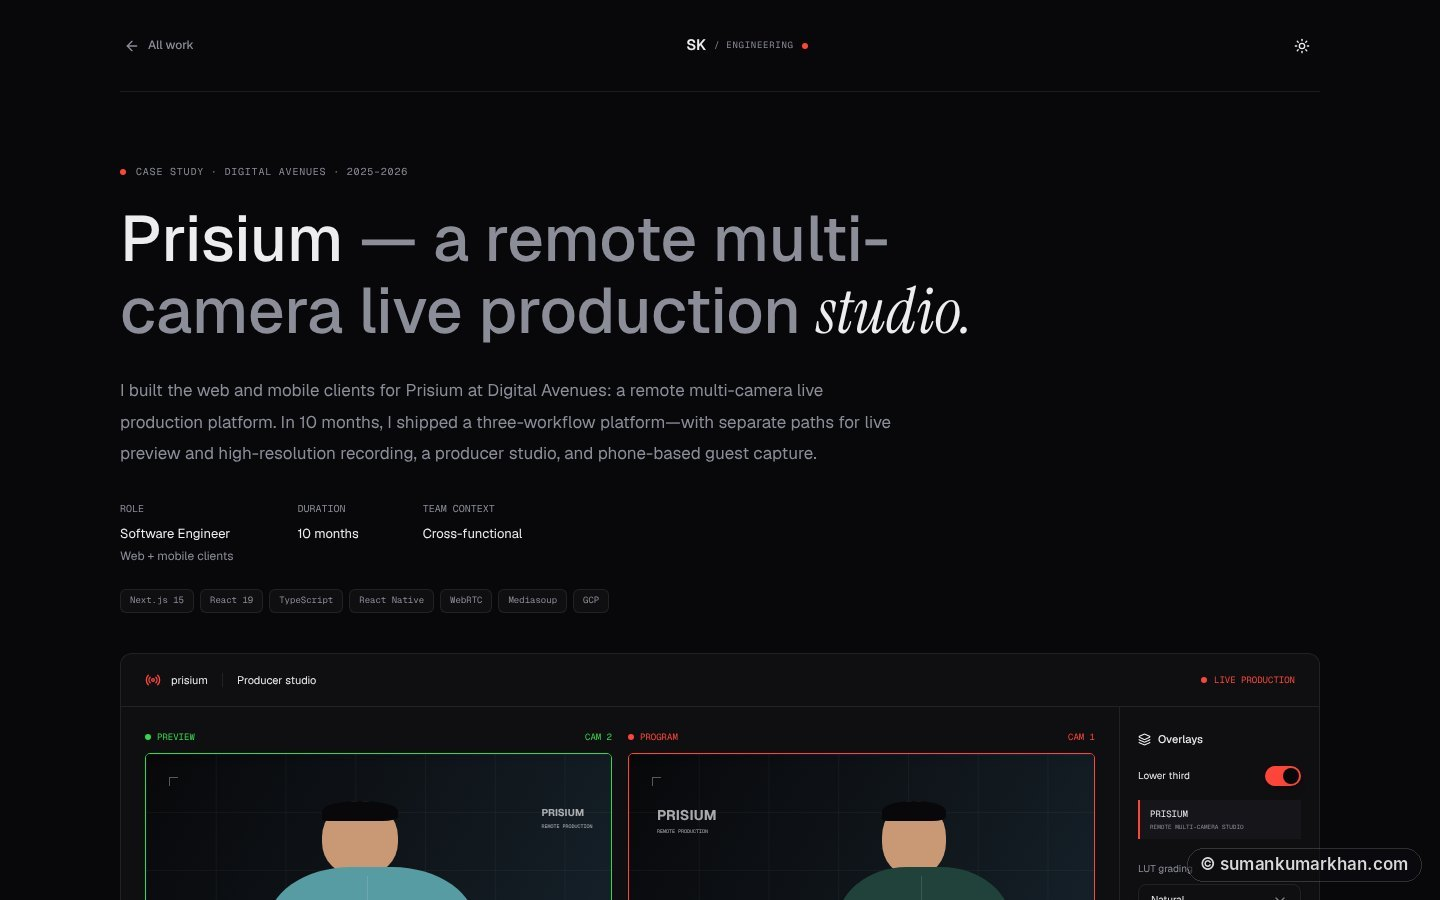
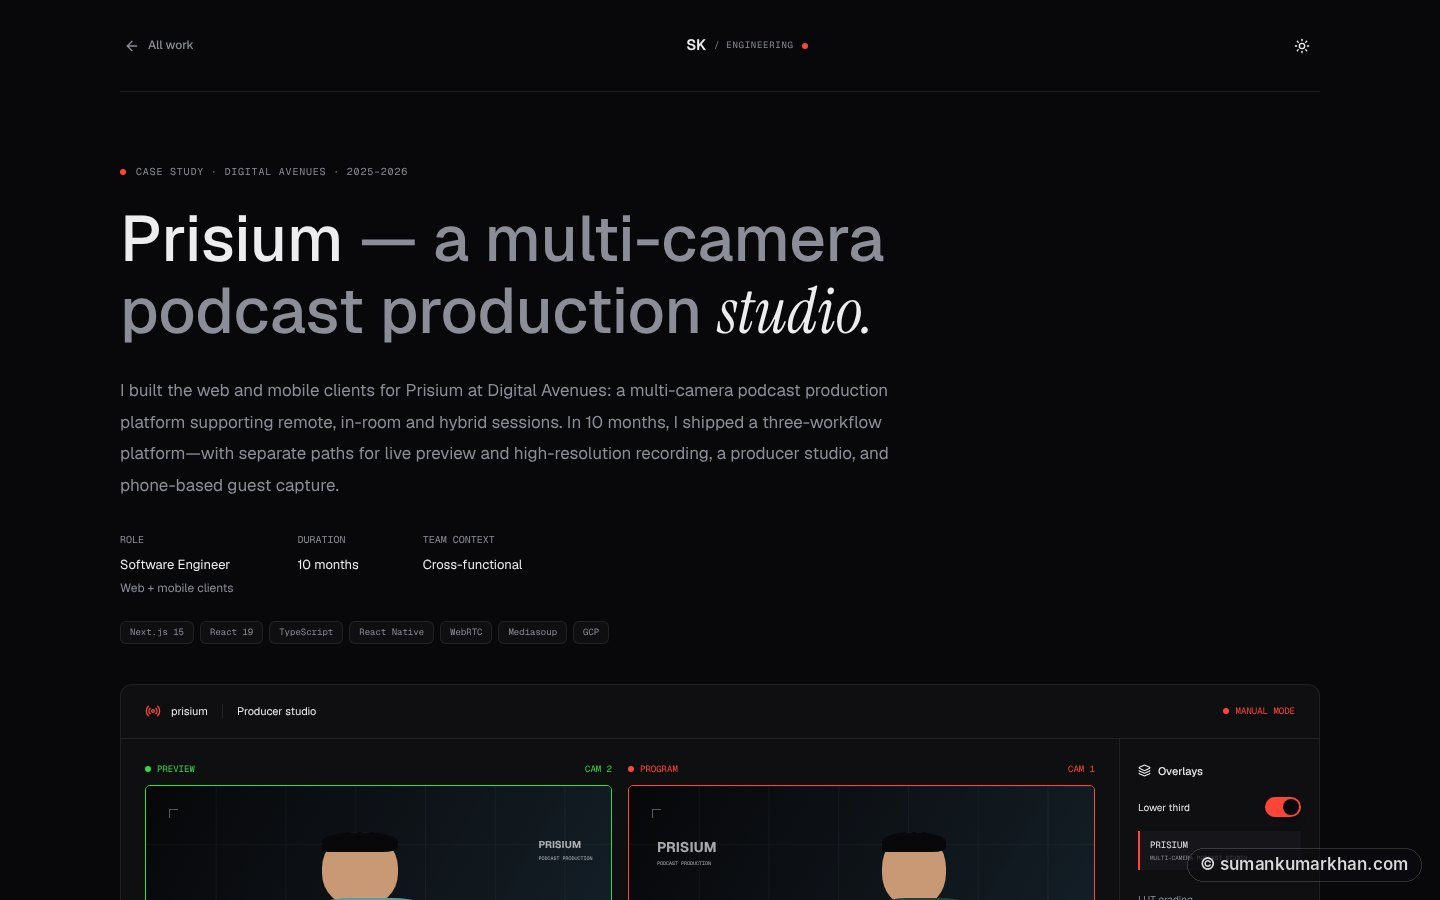
Update showcase: Blogger, résumé manager, homepage editor, new screenshots and architecture

diff --git a/README.md b/README.md
@@ -4,7 +4,7 @@
 
 ### *I build software that goes **live**.*
 
-**My personal portfolio, designed like a live-production control room** — server-rendered on the edge, with a private studio that publishes posts to the site, LinkedIn and dev.to on a schedule, reports the site's own traffic, and keeps a private handbook library.
+**My personal portfolio, designed like a live-production control room** — server-rendered on the edge, with a private studio that publishes posts to the site, LinkedIn, dev.to and Blogger, reports the site's own traffic, and runs the résumé, homepage, recommendations and handbooks — no deploy needed.
 
 <a href="https://sumankumarkhan.com"><img src="https://img.shields.io/badge/Visit-sumankumarkhan.com-FF3B30?style=for-the-badge&logo=googlechrome&logoColor=white" alt="Visit the portfolio" title="Visit sumankumarkhan.com" /></a>
 <a href="https://sumankumarkhan.com/work/prisium"><img src="https://img.shields.io/badge/Read-Case_Studies-111111?style=for-the-badge&logo=readdotcv&logoColor=white" alt="Case studies" title="Read the Prisium case study" /></a>
@@ -20,7 +20,7 @@
 <img src="https://img.shields.io/badge/Vite_8-646CFF?style=flat&logo=vite&logoColor=white" alt="Vite 8" title="Vite 8" />
 <img src="https://img.shields.io/badge/Bun-000000?style=flat&logo=bun&logoColor=white" alt="Bun" title="Bun" />
 <img src="https://img.shields.io/badge/Cloudflare_Workers-F38020?style=flat&logo=cloudflare&logoColor=white" alt="Cloudflare Workers" title="Cloudflare Workers, KV, R2 and Access" />
-<img src="https://img.shields.io/badge/Tests-390%2B-2EA043?style=flat&logo=vitest&logoColor=white" alt="390+ tests" title="390+ Vitest tests" />
+<img src="https://img.shields.io/badge/Tests-720%2B-2EA043?style=flat&logo=vitest&logoColor=white" alt="720+ tests" title="720+ Vitest tests" />
 
 </div>
 
@@ -47,12 +47,12 @@
 
 <table>
 <tr>
-<td align="center" width="16%"><h3>10</h3><sub>numbered home sections, from Impact to Contact</sub></td>
+<td align="center" width="16%"><h3>11</h3><sub>home sections, reordered and shown or hidden from the studio</sub></td>
 <td align="center" width="16%"><h3>5</h3><sub>engineering case studies with their own pages</sub></td>
-<td align="center" width="16%"><h3>3</h3><sub>publishing targets: site, LinkedIn and dev.to</sub></td>
-<td align="center" width="16%"><h3>⌘K</h3><sub>command palette for every page and action</sub></td>
+<td align="center" width="16%"><h3>4</h3><sub>publishing targets: site, LinkedIn, dev.to and Blogger</sub></td>
+<td align="center" width="16%"><h3>7</h3><sub>sections in the private studio</sub></td>
 <td align="center" width="16%"><h3>0</h3><sub>cookies — privacy-friendly analytics, no banner</sub></td>
-<td align="center" width="16%"><h3>390+</h3><sub>automated tests</sub></td>
+<td align="center" width="16%"><h3>720+</h3><sub>automated tests</sub></td>
 </tr>
 </table>
 
@@ -89,17 +89,22 @@ A **Core** toggle trims the board down to the tools I use most.
 ### Case studies
 <img src="docs/screenshots/05-case-study.jpg" alt="Prisium case study" title="Prisium case study" />
 
-Five dedicated pages (**Prisium, App Studio, HRM, AR/VR, Vehicle Tracking**) with role, duration and team context, numbered figures, an interactive producer-studio demo and a simulated camera-switching walkthrough, results, and previous / next navigation.
+Five dedicated pages — **Prisium** (a multi-camera podcast production platform for remote, in-room and hybrid sessions), **App Studio, HRM, AR/VR and Vehicle Tracking** — with role, duration and team context, numbered figures, an interactive producer-studio demo and a simulated camera-switching walkthrough, results, and previous / next navigation.
 
 ### Blog — written in a private editor, published everywhere
 <img src="docs/screenshots/06-blog-post.jpg" alt="Blog post with table of contents" title="Blog post" />
 
-MDX articles with Shiki syntax highlighting, an "On this page" table of contents, reading time, an RSS feed, auto-generated cover images, and a sitemap that updates itself.
+MDX articles with Shiki syntax highlighting, an "On this page" table of contents, reading time, an RSS feed, auto-generated cover images, and a sitemap that updates itself. Each post also shows **where else it's published** — dev.to, LinkedIn or Blogger — with its state and date, such as *Posted 8 Nov 2026* or *Scheduled 20 Nov 2026*, linking to the published copy.
 
 ### Contact
 <img src="docs/screenshots/07-contact.jpg" alt="Contact form and links" title="Contact section" />
 
-A validated form (name, email, company, topic, message) that emails me directly, with a spam honeypot, plus one-click email copy, Calendly booking, LinkedIn, GitHub and résumé download.
+A validated form (name, email, company, topic, message) that emails me directly, with a spam honeypot, plus one-click email copy, Calendly booking, LinkedIn, GitHub, and separate **View online** and **Download PDF** buttons for the résumé.
+
+### Online résumé
+<img src="docs/screenshots/10-resume.jpg" alt="Online résumé page" title="Online résumé at /resume" />
+
+A responsive two-column résumé at `/resume` with **results at a glance**, clear contact details, and a print layout tuned to come out as a clean, single-column PDF with clickable links. The downloadable PDF is managed from the studio.
 
 <table>
 <tr>
@@ -108,7 +113,7 @@ A validated form (name, email, company, topic, message) that emails me directly,
 ### ⌘K command palette
 <img src="docs/screenshots/08-command-palette.jpg" alt="Command palette" title="Command palette (Ctrl/⌘ + K)" />
 
-Jump to any section, case study, the blog, LinkedIn posts or the résumé — or **book a call, copy my email, download the résumé and switch theme** — without touching the mouse. Recently used commands float to the top.
+Jump to any section, case study, the blog, LinkedIn posts, dev.to or the résumé — or **book a call, copy my email, download the résumé and switch theme** — without touching the mouse. Recently used commands float to the top.
 
 </td>
 <td width="38%" valign="top">
@@ -121,18 +126,22 @@ Jump to any section, case study, the blog, LinkedIn posts or the résumé — or
 </table>
 
 ### And the small things
-- 📄 **Printable résumé page** (`/resume`) alongside the PDF download
 - 💬 **"From LinkedIn"** — short posts with images or video, on their own page and previewed on the home page
-- ⭐ **LinkedIn recommendations** section
+- ⭐ **Recommendations** section, managed from the studio
+- 🧭 **Footer with icons** for every link, including dev.to
 - 👋 A polite **exit-intent prompt** to book a call — mouse users only, only after 10 seconds on the page, and silent for 14 days once seen
 - 🕒 A live **IST clock** in the footer, so visitors know when I'm likely to reply
 - 🍪 **Anonymous, cookie-free analytics** — no tracking across sites and no cookie banner to dismiss
+- 📜 **A plain-language privacy policy** (`/privacy`) that's kept in step with what the site actually collects
 
 ---
 
 ## 🎚 Behind the scenes: the private studio
 
-The site has a private back office at `/admin`, protected by Cloudflare Access. It has **four sections, each with its own bookmarkable address**, and opening plain `/admin` takes me back to the one I used last.
+The site has a private back office at `/admin`, protected by Cloudflare Access. It has **seven sections, each with its own bookmarkable address**, and opening plain `/admin` takes me back to the one I used last. Nearly everything a visitor sees can be changed here **in seconds, without a code change or a deploy**.
+
+<img src="docs/screenshots/11-studio-homepage.jpg" alt="The private studio's Homepage editor" title="Studio — Homepage editor" />
+<p align="center"><sub>The Homepage editor, running locally with the default settings</sub></p>
 
 <table>
 <tr>
@@ -141,7 +150,7 @@ The site has a private back office at `/admin`, protected by Cloudflare Access. 
 ### ✍ Blog posts
 `/admin/blog-posts`
 
-Write and edit MDX posts, publish them live in seconds, and share them to LinkedIn and dev.to now or on a schedule.
+Write and edit MDX posts, publish them live in seconds, and share them to LinkedIn, dev.to and Blogger now or on a schedule.
 
 </td>
 <td width="25%" valign="top">
@@ -149,7 +158,7 @@ Write and edit MDX posts, publish them live in seconds, and share them to Linked
 ### 💬 LinkedIn posts
 `/admin/linkedin-posts`
 
-Short posts with images or video that appear on the site and go to LinkedIn — published on the site only once LinkedIn accepts them.
+Short posts with images or video that appear on the site and go to LinkedIn — and can be shown or hidden on the site at any time.
 
 </td>
 <td width="25%" valign="top">
@@ -165,13 +174,54 @@ The site's own traffic report, so I never need to open the Cloudflare dashboard 
 ### 📚 Handbooks
 `/admin/handbooks`
 
-A private reading room for my AI-filmmaking study handbooks, read one module at a time.
+A private reading room for my AI-filmmaking study handbooks.
+
+</td>
+</tr>
+<tr>
+<td valign="top">
+
+### 📄 Résumé
+`/admin/resume`
+
+Upload, preview and publish the résumé PDF, with a version history.
+
+</td>
+<td valign="top">
+
+### ⭐ Recommendations
+`/admin/recommendations`
+
+Add, reorder, hide and delete recommendations, with a live preview of the card.
+
+</td>
+<td valign="top">
+
+### 🏠 Homepage
+`/admin/sections`
+
+Reorder, rename, show or hide any home-page section.
+
+</td>
+<td valign="top">
+
+### 🧰 Everywhere
+A live IST clock, an on-demand **deployment status** check, light and dark themes, and **Sign out**.
 
 </td>
 </tr>
 </table>
 
-**Publishing status at a glance.** Every post card shows a chip for each destination — **site, dev.to and LinkedIn** — marked *posted*, *scheduled*, *in progress* or *failed*. Cards refresh on their own while anything is still pending, and posts are sorted by the date that matters for their state.
+**Publishing status at a glance.** Every post card shows a chip for each destination — **site, dev.to, LinkedIn and Blogger** — marked *posted*, *scheduled*, *in progress* or *failed*, with its date. Cards refresh on their own while anything is still pending, and posts are sorted by the date that matters for their state. Lists load with skeletons, posts can be **shown, hidden or deleted** straight from the list, and the sharing panels for each destination sit in tabs.
+
+**Cross-posting done properly:**
+- **dev.to** — a preview drawn in dev.to's own style, code colours included, so I see the article as readers will; the post's description becomes its opening paragraph
+- **Blogger** — connected with Google sign-in. Blogger **schedules the post itself**, so nothing has to run on my site at publish time, and every copy ends with an "Originally published at" link back to the original
+- **LinkedIn** — sent on a schedule by the site's own five-minute cron job
+
+**Résumé manager.** Uploading a PDF saves it as a **draft** to preview; only **Make live** changes what visitors download. The last ten versions are kept and any one can be restored in a click, the live version can't be deleted, I can choose the downloaded file's name, and one master switch hides the résumé buttons across the site.
+
+**Homepage editor.** Hiding a section closes the numbering gap for everything after it, and the floating navigation and footer only ever link to sections that are visible.
 
 **A full analytics dashboard**, mirroring Cloudflare's own:
 
@@ -187,9 +237,9 @@ A private reading room for my AI-filmmaking study handbooks, read one module at 
 
 **A private handbook library.** Handbooks are added straight from the studio — paste JSON or upload a file — with no code change and no deploy:
 
-- **Content is data, never code.** Each handbook is plain JSON made of modules and typed blocks — intros, lists, steps, tables, prompts with copy buttons, tips, stats, charts and resource links
+- **Content is data, never code.** Each handbook is plain JSON made of typed blocks — intros, lists, steps, tables, prompts with copy buttons, tips, notes and warnings, stats, charts, checklists, cards, timelines, journey steps, images and galleries, and resource links
 - **Checked as you type**: one validator reports the exact place of every problem, and refuses unknown fields, broken tables and over-long text
-- **A reader built for study**: one module at a time with a numbered progress strip, and progress remembered in the browser only
+- **Two readers built for study**: one module at a time with a numbered progress strip, or one continuous scroll with a chapter rail. Progress and ticked checklist items are remembered in the browser only
 - **Manage the library**: add, replace, download as JSON for backup, delete, or restore a built-in original
 - **The private text never enters the code repository** — handbooks are stored in Cloudflare KV, and the files waiting to be added sit in a folder Git ignores
 
@@ -205,16 +255,18 @@ flowchart TB
   CR["⏱ Cron<br/>every 5 min"]
   W["⚡ Cloudflare Worker<br/>TanStack Start SSR · admin API"]
 
-  subgraph DATA["Cloudflare storage"]
-    KV[("KV<br/>live posts · schedules · handbooks")]
-    R2[("R2<br/>post media")]
+  subgraph CFP["Cloudflare platform"]
+    KV[("KV<br/>posts · schedules<br/>homepage · résumé · handbooks")]
+    R2[("R2<br/>media · résumé PDFs")]
     WA[("Web Analytics<br/>cookie-free")]
+    WB["Workers Builds<br/>build & deploy"]
   end
 
   subgraph EXT["Integrations"]
     GH["GitHub<br/>MDX posts · cover Actions"]
     LI["LinkedIn API"]
     DT["dev.to API"]
+    BL["Blogger API<br/>Google sign-in"]
     RS["Resend<br/>email"]
   end
 
@@ -225,14 +277,16 @@ flowchart TB
   W <--> R2
   W -- "read-only query" --> WA
   V -. "anonymous page views" .-> WA
+  W -- "status, on demand" --> WB
   W -- "commit post" --> GH
-  GH -. "rebuild & deploy" .-> W
+  GH -. "push → deploy" .-> WB
   W --> LI
   W --> DT
+  W --> BL
   W --> RS
 ```
 
-The whole site is **server-rendered on Cloudflare's edge**. Everything a visitor sees — career facts, projects, stack, case studies — lives in **typed content files**, so updating the portfolio means editing data, not markup.
+The whole site is **server-rendered on Cloudflare's edge**, and every push is built and deployed by **Cloudflare Workers Builds**. Career facts, projects, stack and case studies live in **typed content files**, while anything I change often — homepage layout, recommendations, the résumé, handbooks and where each post is published — lives in **KV and R2**, so it changes from the studio without a deploy.
 
 ### How publishing a blog post works
 
@@ -242,22 +296,39 @@ sequenceDiagram
   participant W as Worker
   participant KV as KV store
   participant GH as GitHub
-  participant CF as Cloudflare build
+  participant CF as Workers Builds
   participant Ext as LinkedIn / dev.to
+  participant BL as Blogger
 
   Me->>W: Publish post
   W->>W: Verify Cloudflare Access token
   W->>GH: Commit the .mdx file
   W->>KV: Store a live copy
   Note over W,KV: Post is live on the site within seconds
-  GH->>CF: Rebuild (1–2 min)
+  GH->>CF: Push triggers build (1–2 min)
   GH->>GH: Action generates the cover image
   CF-->>W: Built page replaces the live copy
   Me->>W: Share now or schedule
   loop Cron, every 5 minutes
     W->>Ext: Send posts that are due
   end
+  W->>BL: Create post with a publish time
+  Note over BL: Blogger holds it and publishes on time
+  W->>KV: Record where it's published
+  Note over W: Blog page shows "Posted" / "Scheduled" badges
   W-->>Me: Email: "Blog post published"
+```
+
+### How a new résumé goes live
+
+```mermaid
+flowchart LR
+  U["Upload PDF<br/>in /admin/resume"] --> C{"Checks<br/>≤ 2 MB · complete PDF<br/>no scripts, launchers<br/>or attached files"}
+  C -- "refused" --> X["Clear reason shown"]
+  C -- "passes" --> D[("Draft<br/>saved in R2")]
+  D --> P["Preview"] --> L["Make live"]
+  L --> R["/resume.pdf<br/>for visitors"]
+  L --> H[("Last 10 versions<br/>kept to restore")]
 ```
 
 ### How a handbook is saved and read
@@ -295,30 +366,39 @@ sequenceDiagram
 | **Instant publish via KV, build takes over** | A new post is live in seconds instead of waiting for a rebuild; once a newer build is running, the built page wins and the stored copy is ignored |
 | **Safe Markdown renderer for live copies** | Workers don't allow `eval`, which MDX needs, so live copies are drawn by a small renderer that never runs code |
 | **Own scheduling queue + 5-minute cron** | LinkedIn and dev.to can't schedule posts through their APIs, so the schedule lives in KV and a cron job sends whatever is due |
+| **Let Blogger schedule its own posts** | Blogger *can* schedule, so the post is created there with a publish time and Blogger releases it — nothing on my side has to run at that moment, and a guard stops it going out early |
+| **Where a post is published comes from live data, not the post file** | The "Posted" / "Scheduled" badges merge a lasting KV record with the send queues. The cron job copies sent links into that record, because the queues forget them after 90 days |
 | **Never post twice, never post a dead link** | Sends are idempotent: an interrupted send is marked failed rather than retried blindly, a post waits until it's live on the site, and an article already on dev.to is reused, not duplicated |
 | **Email failures never block publishing** | Notifications are sent only after a post is saved, and a failed email can't change or hide it |
 | **Cookie-free analytics, counted only where it means something** | Cloudflare Web Analytics sets no cookies and doesn't follow people across sites, so there's no consent banner. It loads only on the live site, never in `/admin`, and any browser can opt out — so my own visits don't skew the numbers |
 | **Analytics read on the server, one measure at a time** | The Worker queries Cloudflare's analytics API itself, so the dashboard lives in my own studio. Each extra measure (Core Web Vitals, page load time) is a separate request, so one failing metric never hides the main numbers |
 | **Handbooks as validated JSON, stored outside the code** | New handbooks need no code change or deploy, and their private text never lands in the repository. The same validator checks a handbook on the way in *and* on the way out, and if KV ever fails, the built-in handbooks still load |
+| **Change content at runtime, cache what visitors read** | Homepage sections, recommendations and the résumé are KV data edited in the studio, not commits. The homepage layout is read on every visit, so it's cached for 45 seconds and cleared the moment I save — keeping KV usage low without showing a stale page |
+| **Deployment status on demand, never polled** | Cloudflare's Workers Builds API has no simple push option for a Worker, so one click checks the build and keeps checking only while it's still running. Answers are cached for 45 seconds, so several open tabs cost at most one API call |
+| **The Worker never fetches its own address** | On Cloudflare, a Worker can't reliably reach its own public site from inside a request, so "is this post live?" and cover-image checks use the site's own lookup and static-asset binding instead |
 | **Pure, browser-safe helpers** | The camera-switching simulation, timecode and exit-intent logic are plain functions, so they're easy to test without a browser or media streams |
 
 ## 🔐 Security & privacy
 
 - **The admin editor is private twice over**: Cloudflare Access blocks everyone else before the page loads, and the server re-verifies Access's **signed token (RS256, audience-checked)** on every request. If any setting is missing, it **refuses everyone**.
 - **Server-only code is kept out of the browser bundle** by the build, so secrets can't leak to the client.
-- **Least-privilege GitHub token** — it can only write to this one repository.
+- **Least-privilege tokens** — the GitHub token can only write to this one repository, and the deployment-status token can only read build and Worker details.
+- **Sign out properly** — every studio screen has a Sign out button that ends the Cloudflare Access session; editors warn before leaving with unsaved changes.
 - **No silent overwrites** — saving a post is refused if it changed on GitHub since it was opened.
 - **Contact form**: schema validation on client *and* server, length limits, a request-size cap and a honeypot field against bots.
 - **Uploads are checked by their real file signature**, not just the extension, with size limits per type.
+- **Résumé PDFs are inspected before they're accepted** — at most 2 MB, must be a complete PDF, and refused if they contain JavaScript, program launchers, attached files, embedded media or form actions. They're stored outside the public media route and stay drafts until I make one live.
+- **Blogger access stays on the server** — the Google sign-in is handled by the Worker behind the same Access check, never in the browser, and can be disconnected at any time.
 - **Analytics access is read-only and stays on the server**: the Cloudflare token can only read analytics, never reaches the browser, sits behind the same Access check, and every query is built only from validated values.
 - **Handbook text never reaches the page source or the browser bundle** — only the Worker reads it, after the Access check, and refuses everyone if that check isn't configured. Saving requires a same-origin JSON request, every handbook is capped at 1 MB, and responses are `private, no-cache` with ETags.
 - **Safe links only** — resource links must be full `https://` addresses (`javascript:`, `data:`, relative links and embedded passwords are refused when saving) and open in a new tab with `noopener noreferrer`.
 - **The studio stays out of search engines and analytics** — every `/admin` page is marked `noindex, nofollow` and never loads the analytics script.
-- **Privacy by default**: visitor analytics are anonymous and cookie-free, never load in the private studio, and can be switched off per browser.
+- **Privacy by default**: visitor analytics are anonymous and cookie-free, never load in the private studio, and can be switched off per browser. A public privacy policy explains exactly what's collected and is updated whenever that changes.
 
 ## ✅ Quality
 
-- **390+ automated tests** with Vitest and Testing Library — routing, content, contact form and email, the admin API and its sign-in check, scheduling, cross-posting and publishing status, analytics reports and date ranges, handbook validation, storage and API, cover images, the case-study simulations and more
+- **720+ automated tests** with Vitest and Testing Library — routing, content, contact form and email, the admin API and its sign-in check, scheduling and cross-posting to LinkedIn, dev.to and Blogger, publishing badges, analytics, handbooks, the résumé manager and PDF checks, homepage sections and caching, recommendations, deployment status, cover images, the case-study simulations and more
+- **Print-tested résumé** — the résumé's print layout is checked by printing it to PDF and reviewing every page
 - **ESLint + Prettier** across the codebase, and TypeScript end to end
 - **Accessibility**: keyboard-first command palette, focus-managed dialogs, and animations that respect `prefers-reduced-motion`
 - **SEO and sharing**: per-page titles, descriptions, canonical URLs and Open Graph / Twitter cards, plus RSS and an automatically updated sitemap
@@ -332,9 +412,9 @@ sequenceDiagram
 | **Framework** | TanStack Start, TanStack Router, React 19, TypeScript |
 | **Styling & motion** | Tailwind CSS 4, Radix UI primitives, Framer Motion, Geist & Instrument Serif |
 | **Content** | MDX, remark / rehype, Shiki, typed TypeScript content, schema-validated JSON handbooks |
-| **Hosting & data** | Cloudflare Workers, KV, R2, Access, Cron Triggers (via Nitro) |
+| **Hosting & data** | Cloudflare Workers, Workers Builds (Git-connected CI/CD), KV, R2, Access, Cron Triggers (via Nitro) |
 | **Analytics** | Cloudflare Web Analytics, Cloudflare GraphQL Analytics API |
-| **Integrations** | Resend (email), LinkedIn API, dev.to API, GitHub API, Calendly |
+| **Integrations** | Resend (email), LinkedIn API, dev.to API, Blogger API (Google sign-in), GitHub API, Workers Builds API, Calendly |
 | **Tooling** | Vite 8, Bun, Vitest, Testing Library, ESLint, Prettier, GitHub Actions |
 
 ---
